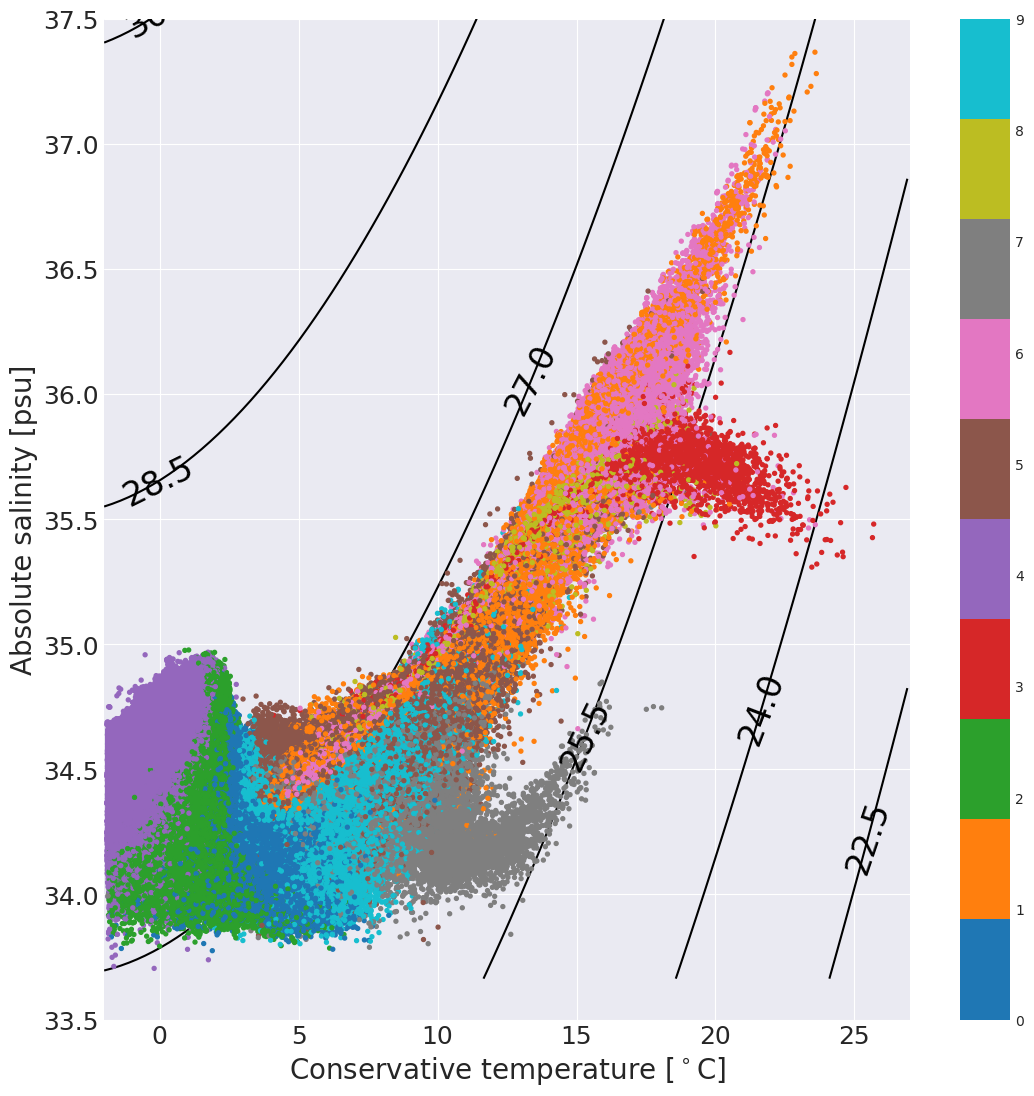
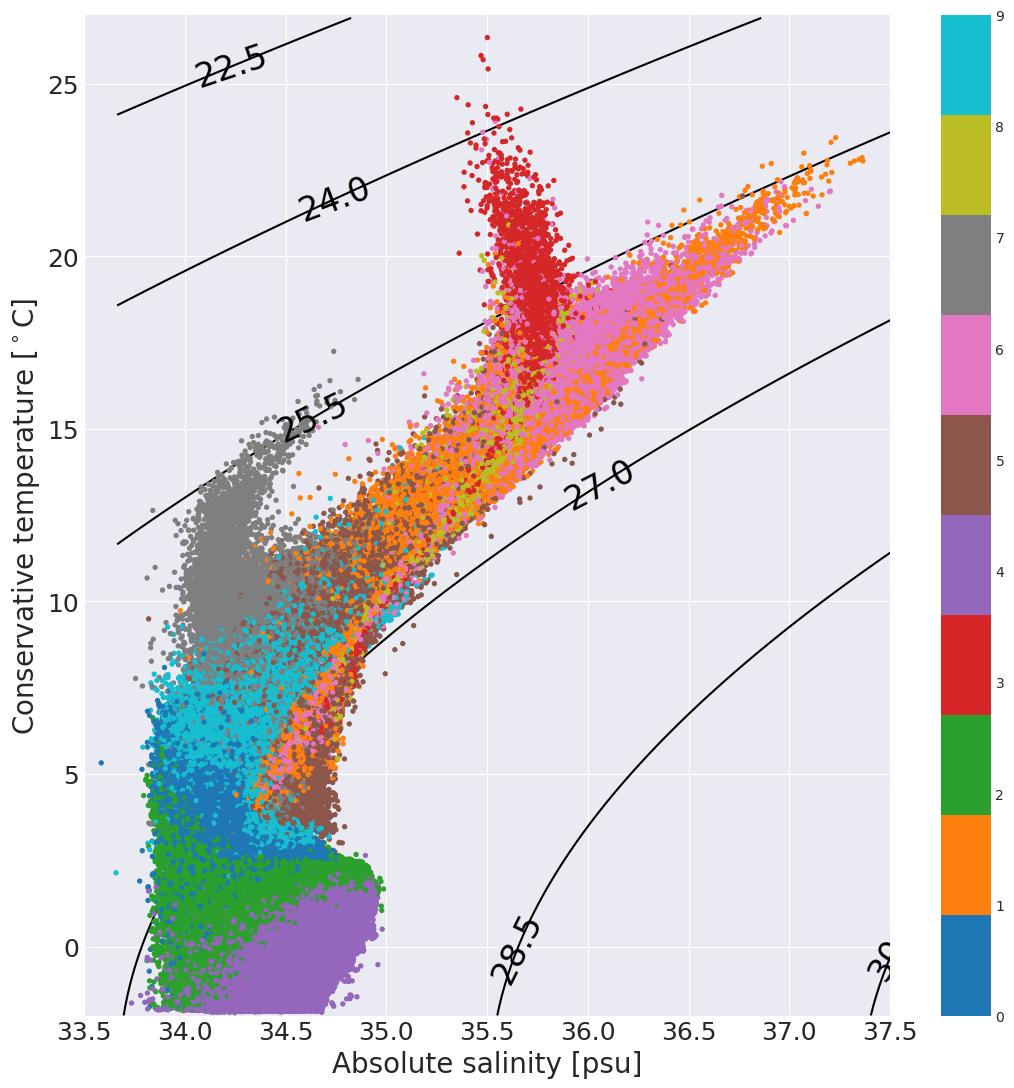
Minor edits

diff --git a/src/example.py b/src/example.py
@@ -214,6 +214,12 @@ pt.plot_TS_single_lev(ploc, profiles, n_components_selected,
 pt.plot_TS_multi_lev(ploc, profiles, n_components_selected,
                      descrip='', plev=0, PTrange=(-2, 27.0),
                      SPrange=(33.5, 37.5), lon = -20, lat = -65, rr = 0.60)
+
+# plot T-S diagram (all levels shown)
+pt.plot_TS_all_lev(ploc, profiles, n_components_selected,
+                   descrip='', PTrange=(-2, 27.0),
+                   SPrange=(33.5, 37.5), lon = -20, lat = -65, rr = 0.33)
+
 # plot label map
 pt.plot_label_map(ploc, profiles, n_components_selected,
                    lon_min, lon_max, lat_min, lat_max)
